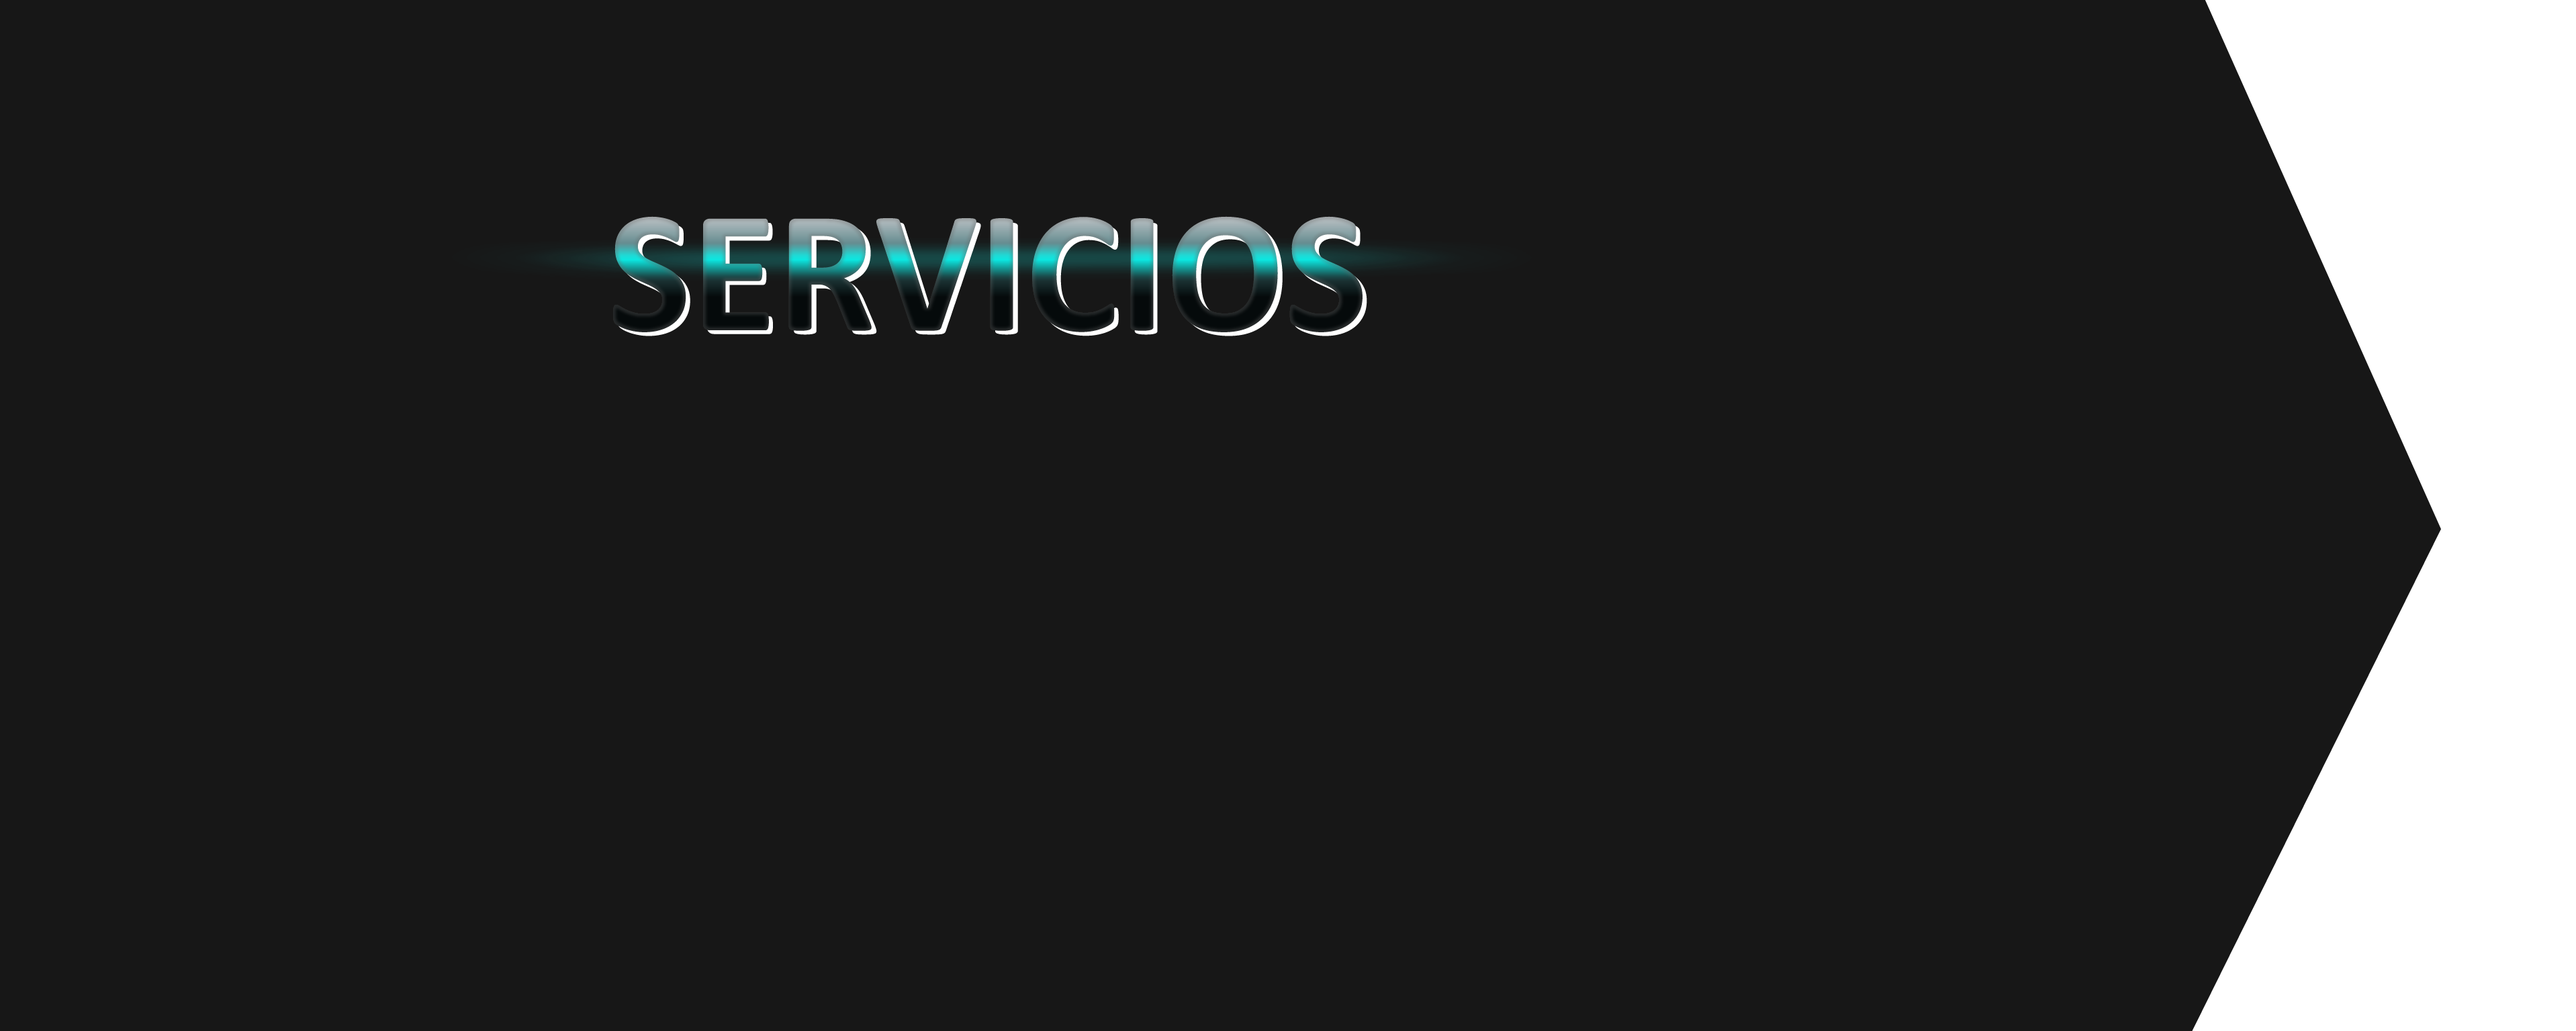
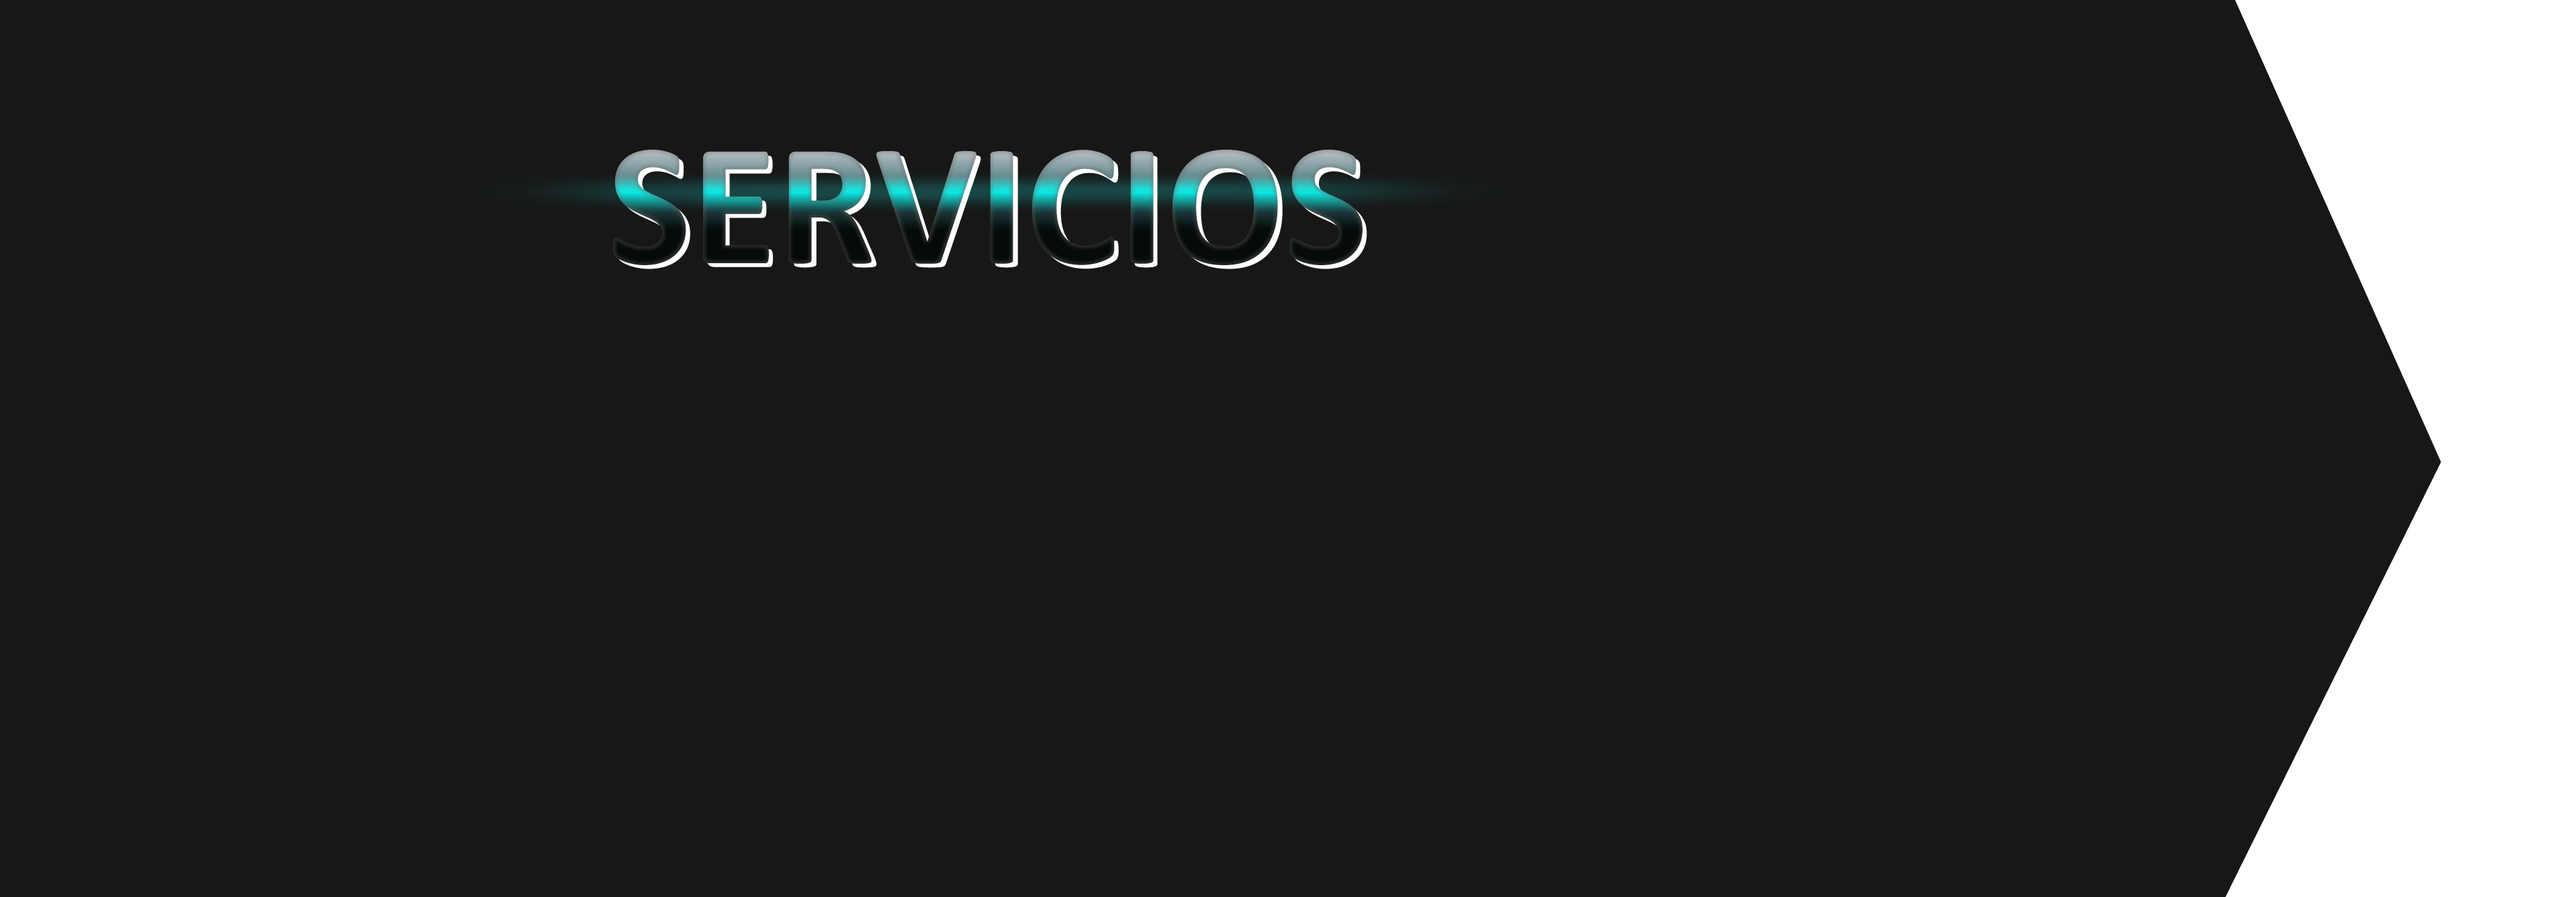
act

diff --git a/htmls/home.php b/htmls/home.php
@@ -106,7 +106,7 @@ h4 {
   position: absolute;
   width: 100%;
   /*height: 20%;*/
-  top: 18%;
+  top: 24%;
   left: 0px;
  }
 .titlep{  
@@ -123,15 +123,35 @@ h4 {
   /*background-size: auto;*/
   
 }
-.img1{
+.img1, .img2{
   position: absolute;
-  width: 10%;
-  bottom:25%;
+  width: 13%;
+  bottom:15%;
   left: 20%;
   z-index: 10;
+  opacity: 0.7;
+  /*punto de rotacion esquina superior izquierda*/
+  -ms-transform-origin: 0% 0%; /* IE 9 */
+  -webkit-transform-origin: 0% 0%; /* Safari 3-8 */
+  transform-origin: 0% 0%;
+  /*angulo de rotacion*/
+  -ms-transform: rotate(60deg); /* IE 9 */
+  -webkit-transform: rotate(60deg); /* Safari 3-8 */
+  transform: rotate(60deg);
+  /*ANIMACION*/
+  animation-delay:0s; /*Tiempo de espera despues de cargar la pagina */ 
+  animation-iteration-count:infinite; /*Nro de repeticiones de la animacion*/
+  animation-duration: 3s; /*duracion sin el delay de la animacion*/
+  animation-name: anim5;  /*nombre de la animacion */
 }
 .img2{
-  left: 40%;
+  left: 45%;
+}
+.img1:hover, .img2:hover{
+  opacity: 1;
+}
+.lineastyle{
+  border-top: 10px double black;
 }
 @keyframes anim1 {
   from {
@@ -173,6 +193,30 @@ h4 {
     left: 0px;
   }
 }
+/*@keyframes anim5 {
+  0% {
+    transform: rotate(0deg) scale(1) skew(1deg) translate(-8px);
+    -webkit-transform: rotate(0deg) scale(1) skew(1deg) translate(-8px);
+    -moz-transform: rotate(0deg) scale(1) skew(1deg) translate(-8px);
+    -o-transform: rotate(0deg) scale(1) skew(1deg) translate(-8px);
+    -ms-transform: rotate(0deg) scale(1) skew(1deg) translate(-8px);
+  }
+
+  50% {
+    transform: rotate(8deg) scale(1) skew(1deg) translate(-8px);
+    -webkit-transform: rotate(8deg) scale(1) skew(1deg) translate(-8px);
+    -moz-transform: rotate(8deg) scale(1) skew(1deg) translate(-8px);
+    -o-transform: rotate(8deg) scale(1) skew(1deg) translate(-8px);
+    -ms-transform: rotate(8deg) scale(1) skew(1deg) translate(-8px);
+  }
+  100%{
+    transform: rotate(0deg) scale(1) skew(1deg) translate(-8px);
+    -webkit-transform: rotate(0deg) scale(1) skew(1deg) translate(-8px);
+    -moz-transform: rotate(0deg) scale(1) skew(1deg) translate(-8px);
+    -o-transform: rotate(0deg) scale(1) skew(1deg) translate(-8px);
+    -ms-transform: rotate(0deg) scale(1) skew(1deg) translate(-8px);  
+  }
+}*/
 </style>
 <a id="portada"></a>
 <div class="row" >
@@ -198,18 +242,19 @@ h4 {
           </div>
           <div class="logonokia"> <!-- En realidad es 'Y más' -->
             <img class="logomarca"src="./../img/luz.png">
-          </div>
+          </div>   
     </div>
   </div>
+   
 </div>
-
+<hr class="lineastyle">
 <div class="row"><a id="servicios"></a>
   <div id="slide2" class="cajap" >
     <div class="titlep1">
       <div id="div1" class="titlep2">
         <img id="div2" src="./../img/servicio.png" class="titlep">
-        <img src="./../img/compra.png" class="img1">
-        <img src="./../img/llave.png" class="img2 img1">
+        <img src="./../img/compra2.png" class="img1">
+        <img src="./../img/llave2.png" class="img2 ">
       </div>
     </div>
   </div>
